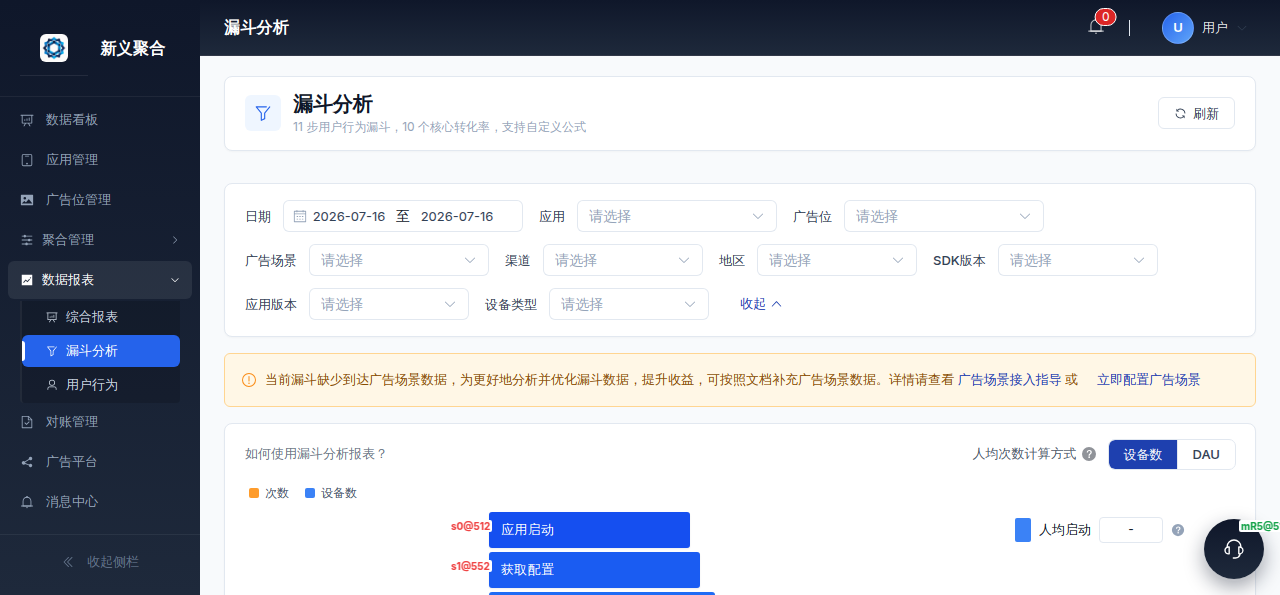
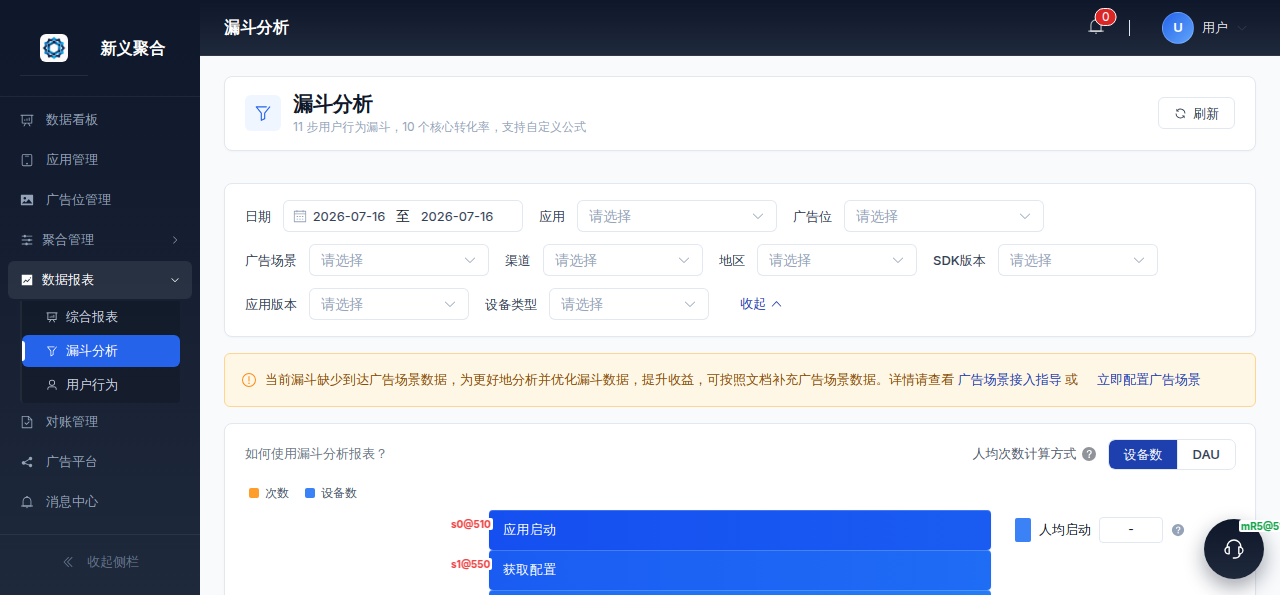
fix(funnel): 色块改统一宽高 100%×40, 加渐变+阴影+光泽质感
- 11 步色块统一宽度 924px (100%), 统一高度 40px
- 颜色: 横向 linear-gradient (深蓝→浅蓝, 按 step index 0-10)
- 质感: box-shadow (0 1px 2px 投影) + inset 0 1px 0 (顶部光泽) + border-radius 4px
- 不再'沙漏型'宽度变化 (用户反馈随心所欲)
- 不是三角漏斗, 是统一砖头

Changed region(s): [[0.3438, 0.8471, 0.7812, 1.0]]

diff --git a/src/index.css b/src/index.css
@@ -10625,33 +10625,38 @@ html, body, #app {
 .funnel-block {
   display: flex;
   align-items: center;
-  padding: 0 12px;
+  justify-content: flex-start;
+  padding: 0 14px;
   color: #fff;
   font-size: 13px;
   font-weight: 500;
-  height: 36px;
-  border-radius: 3px;
+  height: 40px;
+  border-radius: 4px;
   letter-spacing: 0.3px;
-  box-shadow: 0 1px 2px rgba(15, 23, 42, 0.08);
+  box-shadow:
+    0 1px 2px rgba(15, 23, 42, 0.12),
+    inset 0 1px 0 rgba(255, 255, 255, 0.18);
   width: 100%;
+  position: relative;
+  overflow: hidden;
 }
 .funnel-block-text {
   white-space: nowrap;
   overflow: hidden;
   text-overflow: ellipsis;
 }
-/* 11 步色块：色相由深到浅渐变，宽度按"漏斗"型变化 */
-.funnel-block-0  { background: #154ff0; width: 40%; }
-.funnel-block-1  { background: #1a5cf2; width: 42%; }
-.funnel-block-2  { background: #1f6cf5; width: 45%; }
-.funnel-block-3  { background: #247cf7; width: 50%; }
-.funnel-block-4  { background: #2b8bfa; width: 55%; }
-.funnel-block-5  { background: #319afc; width: 58%; }
-.funnel-block-6  { background: #4ba9fd; width: 52%; }
-.funnel-block-7  { background: #65b8fe; width: 50%; }
-.funnel-block-8  { background: #7fc6fe; width: 48%; }
-.funnel-block-9  { background: #98d3fe; width: 45%; }
-.funnel-block-10 { background: #b3dffe; width: 42%; }
+/* 11 步色块：色相由深到浅渐变，统一宽度 100% */
+.funnel-block-0  { background: linear-gradient(90deg, #154ff0 0%, #1a5cf2 100%); }
+.funnel-block-1  { background: linear-gradient(90deg, #1a5cf2 0%, #1f6cf5 100%); }
+.funnel-block-2  { background: linear-gradient(90deg, #1f6cf5 0%, #247cf7 100%); }
+.funnel-block-3  { background: linear-gradient(90deg, #247cf7 0%, #2b8bfa 100%); }
+.funnel-block-4  { background: linear-gradient(90deg, #2b8bfa 0%, #319afc 100%); }
+.funnel-block-5  { background: linear-gradient(90deg, #319afc 0%, #4ba9fd 100%); }
+.funnel-block-6  { background: linear-gradient(90deg, #4ba9fd 0%, #65b8fe 100%); }
+.funnel-block-7  { background: linear-gradient(90deg, #65b8fe 0%, #7fc6fe 100%); }
+.funnel-block-8  { background: linear-gradient(90deg, #7fc6fe 0%, #98d3fe 100%); }
+.funnel-block-9  { background: linear-gradient(90deg, #98d3fe 0%, #b3dffe 100%); }
+.funnel-block-10 { background: linear-gradient(90deg, #b3dffe 0%, #cfe9fe 100%); }
 
 /* 左侧 / 右侧指标行 */
 .funnel-metric {
